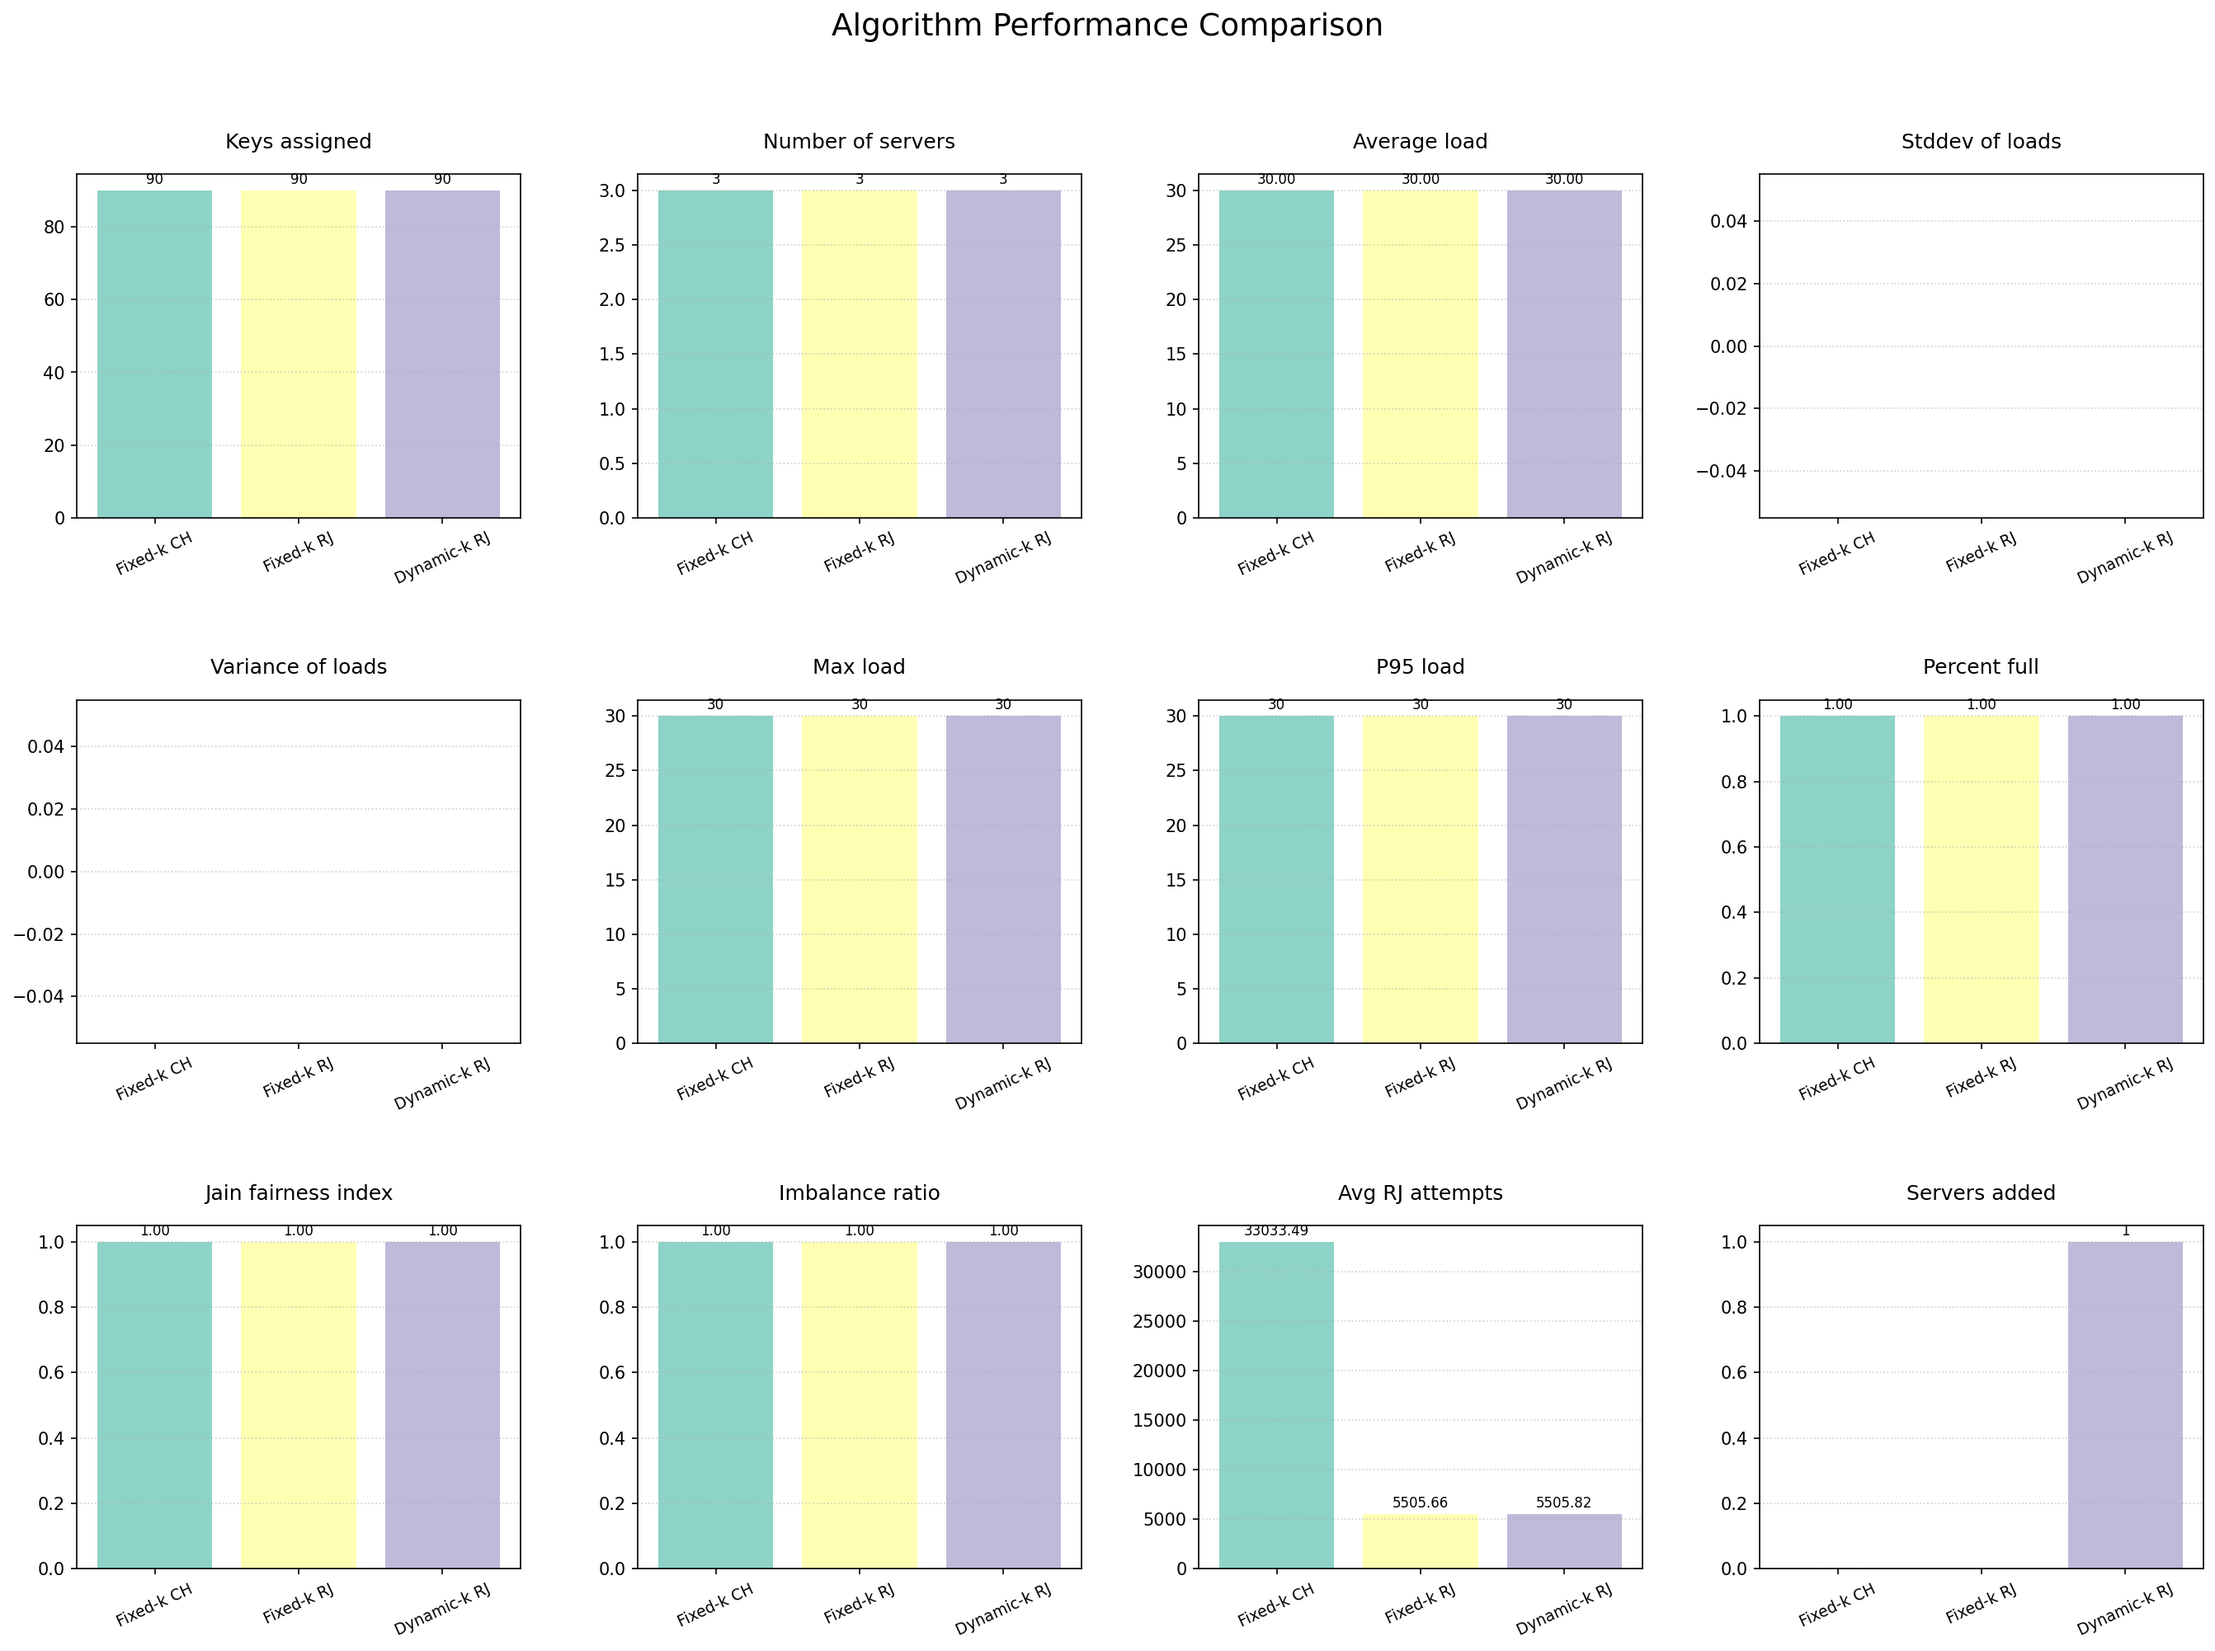
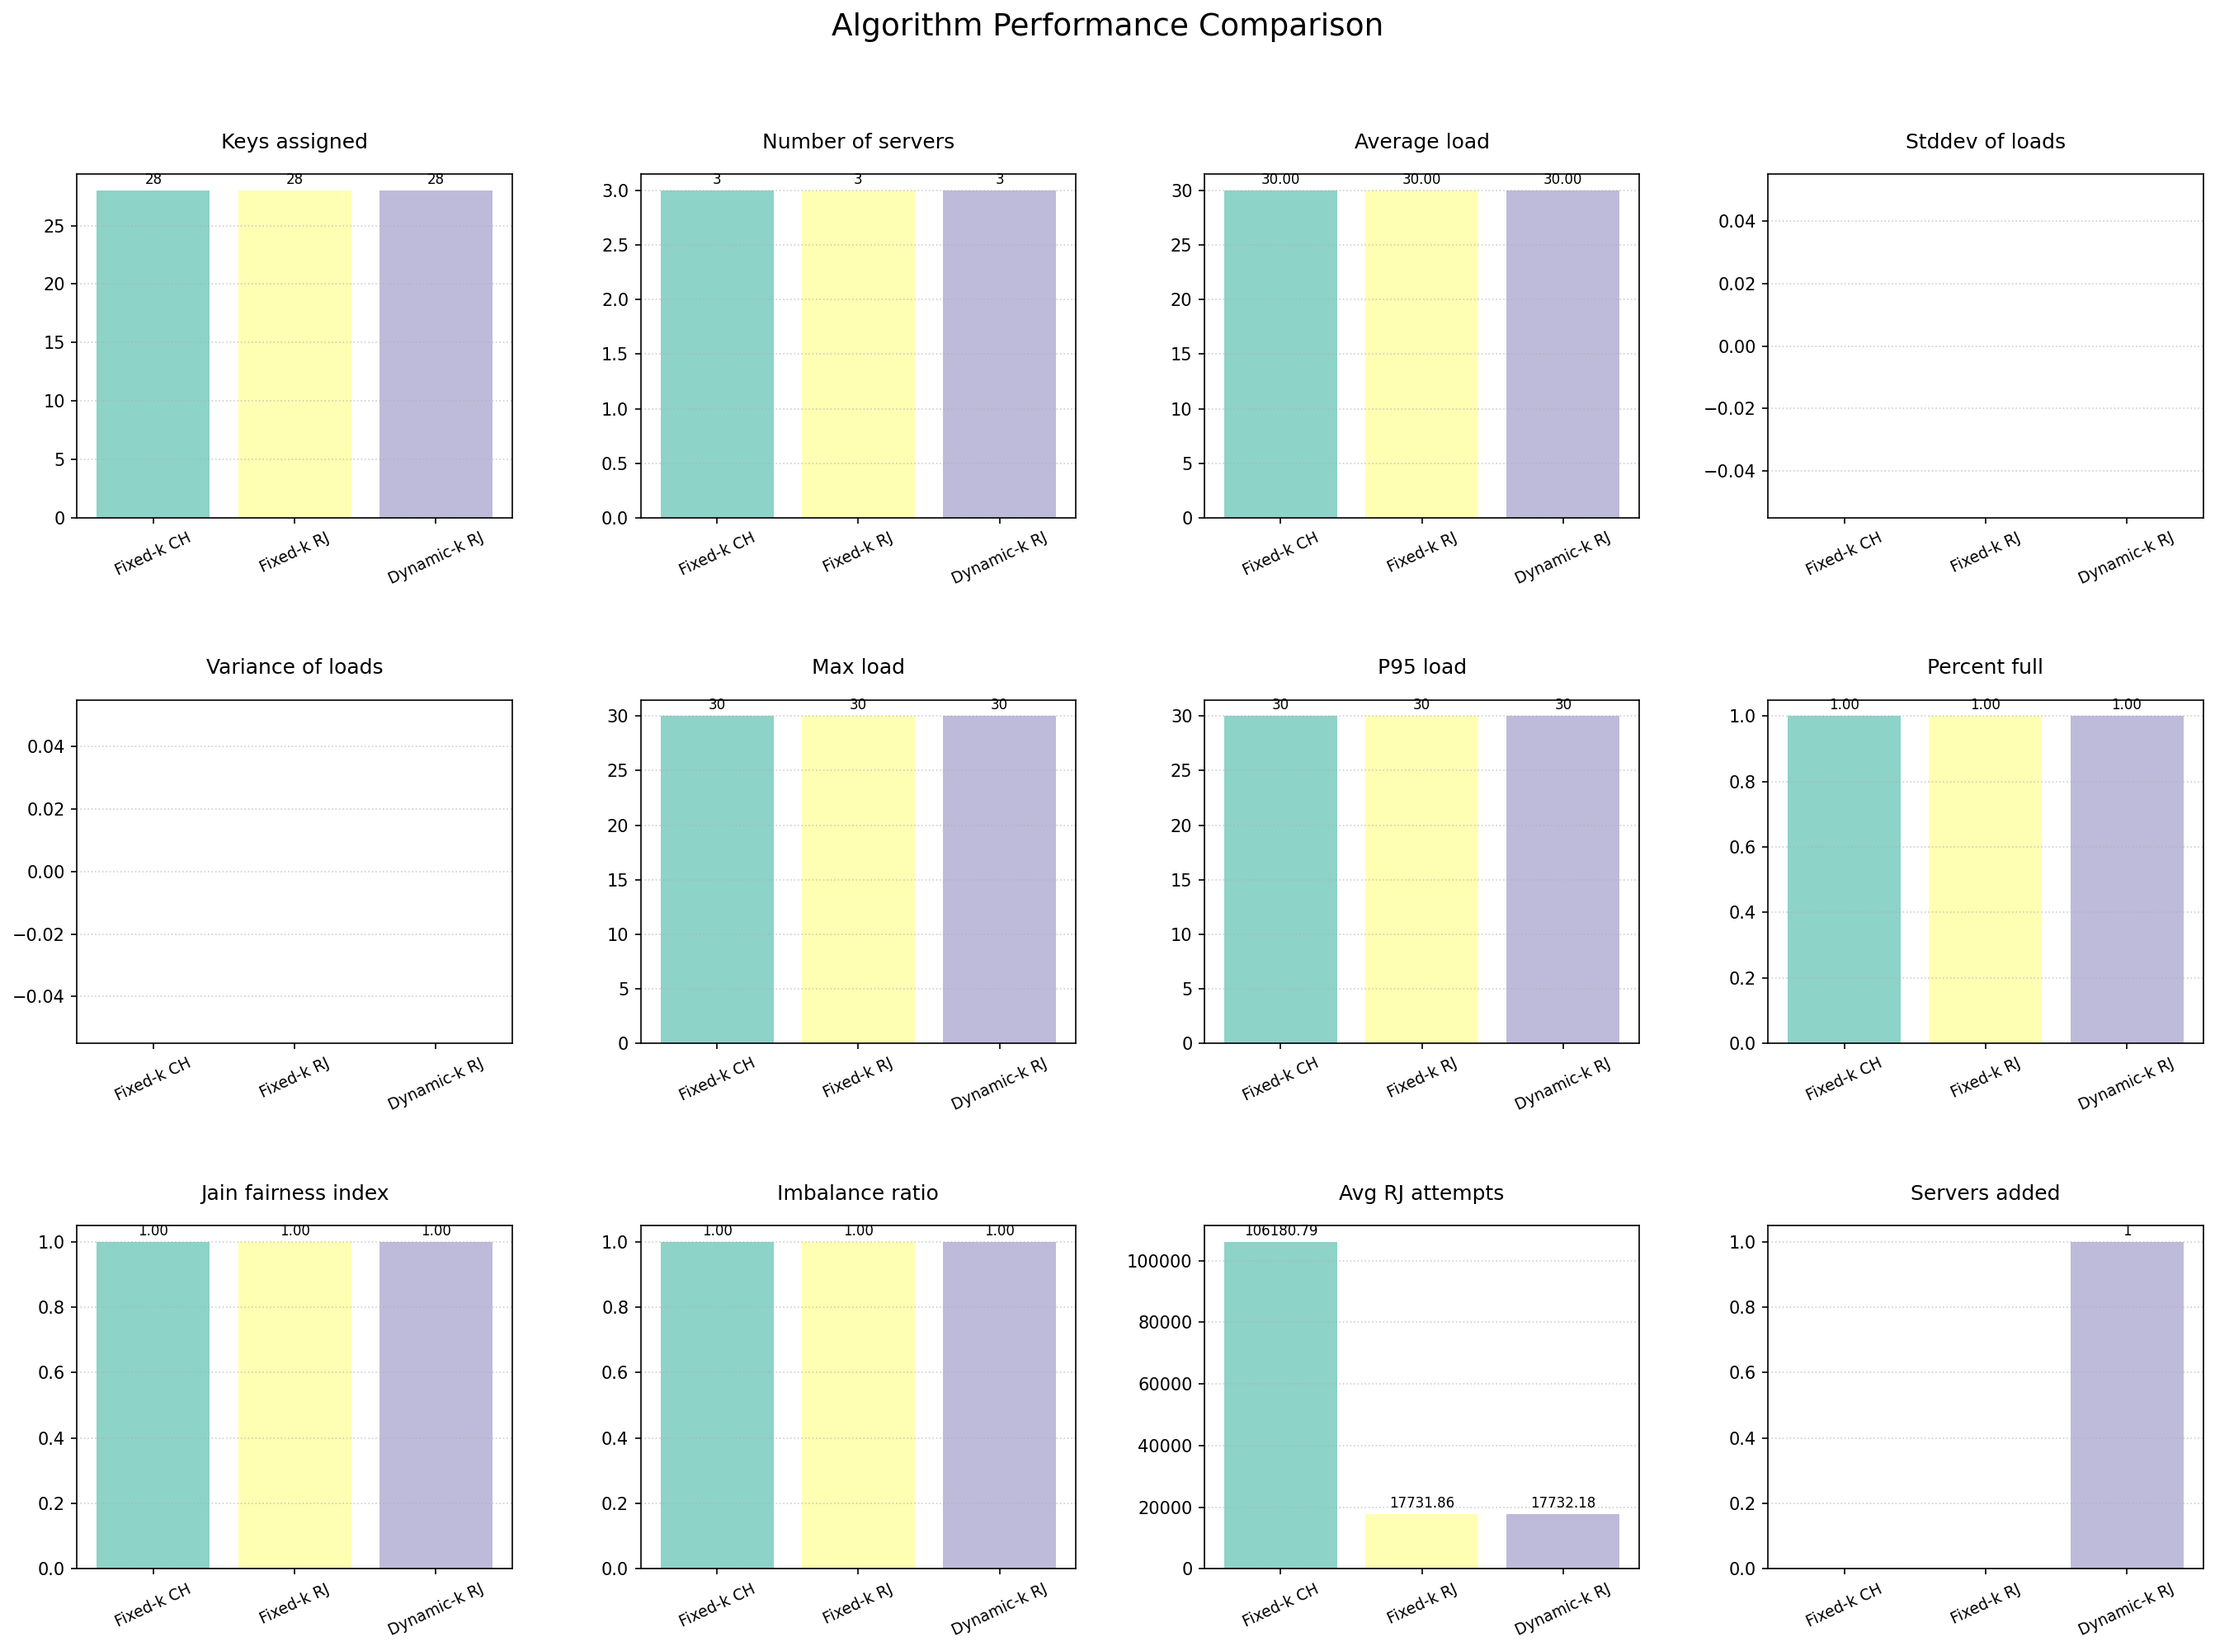
started hashring with dynamic k.

diff --git a/hashing_algorithms.py b/hashing_algorithms.py
@@ -98,26 +98,34 @@ class BoundedHashRing_RJ_CH(ConsistentHashRing):
         self,
         capacity=SERVER_CAPACITY,
         vnodes=NUM_VIRTUAL_NODES,
+        threshold_ratio=0.8,
         max_attempts=MAX_RJ_ATTEMPTS,
     ):
         super().__init__(num_replicas=vnodes, capacity=capacity)
         self.max_attempts = max_attempts
+        self.threshold_ratio = threshold_ratio
 
     def assign_key(self, key):
         if not self.ring:
             return None, 0
+        capacity_threshold = int(self.capacity * self.threshold_ratio)
         server = self.get_server_for_hash(self._hash(key))
-        if server and self.server_loads[server] < self.capacity:
+        if server and self.server_loads[server] < capacity_threshold:
             self.server_loads[server] += 1
             self.key_assignments[key] = server
             return server, 0
         for attempt in range(1, self.max_attempts + 1):
-            attempt_key = f"{key}#{attempt}"
-            server = self.get_server_for_hash(self._hash(attempt_key))
-            if server and self.server_loads[server] < self.capacity:
-                self.server_loads[server] += 1
-                self.key_assignments[key] = server
-                return server, attempt
+            s = self.get_server_for_hash(self._hash(f"{key}#{attempt}"))
+            if s and self.server_loads[s] < capacity_threshold:
+                self.server_loads[s] += 1
+                self.key_assignments[key] = s
+                return s, attempt
+        candidates = [srv for srv, l in self.server_loads.items() if l < self.capacity]
+        if candidates:
+            least = min(candidates, key=lambda s: self.server_loads[s])
+            self.server_loads[least] += 1
+            self.key_assignments[key] = least
+            return least, self.max_attempts
         return None, self.max_attempts
 
 
@@ -134,6 +142,8 @@ class BoundedHashRing_RehashThreshold(ConsistentHashRing):
         super().__init__(num_replicas=vnodes, capacity=capacity)
         self.threshold_ratio = threshold_ratio
         self.max_attempts = max_attempts
+        self.last_request_time = {}
+        self.current_time = 0
 
     def assign_key(self, key):
         if not self.ring:
@@ -165,8 +175,25 @@ class BoundedHashRing_RehashThreshold(ConsistentHashRing):
         h = self._hash(key)
         return self.get_server_for_hash(h)
 
+    def shutdown_idle_servers(self, idle_threshold):
+        """
+        Shut down servers that have been idle for more than `idle_threshold` time steps.
+        Args:
+            idle_threshold (int): Number of time steps a server can be idle before being shut down.
+        Returns:
+            list: Names of servers that were shut down.
+        """
+        idle_servers = [
+            server
+            for server, last_time in self.last_request_time.items()
+            if self.current_time - last_time > idle_threshold
+        ]
+        for server in idle_servers:
+            self.remove_server(server)
+        return idle_servers
+
     # TODO: Delete item function, if the initial k servers have enough capacity, we can delete the key from the server that we created if we
-    # had to rehash it to another server. This would free up space on the original server. So we delete the key and then create a new one as soon as the
+    # had to rehash it to another server. This would free up space on the original server. So we delete the key and then create a new one as soon as the # key is deleted.
     # Go over these function again.
     def delete_key(self, key):
         """Remove a key assignment and free up server capacity."""
@@ -178,19 +205,40 @@ class BoundedHashRing_RehashThreshold(ConsistentHashRing):
             return server
         return None
 
-    def can_remove_empty_servers(self, protected_servers=None):
-        """Find servers that are empty and can be removed."""
-        protected_servers = protected_servers or set()
-        removable = []
-
-        for server, load in self.server_loads.items():
-            if load == 0 and server not in protected_servers:
-                removable.append(server)
-
-        return removable
-
     def get_keys_on_server(self, server_name):
         """Get all keys currently assigned to a specific server."""
         return [
             key for key, server in self.key_assignments.items() if server == server_name
         ]
+
+    # Can we turn off a server afer a certain time of it being underutilized?
+    def remove_server(self, server_name):
+        """Removes a server and rehashes its keys."""
+        keys_to_rehash = self.get_keys_on_server(server_name)
+
+        if server_name in self.server_loads:
+            del self.server_loads[server_name]
+
+        hashes_to_remove = [
+            h for h, name in list(self.server_map.items()) if name == server_name
+        ]
+        for h in hashes_to_remove:
+            if h in self.ring:
+                self.ring.remove(h)
+            if h in self.server_map:
+                del self.server_map[h]
+
+        for key in keys_to_rehash:
+            # Compute the hash of the key
+            key_hash = self._hash(key)
+            # Find the next server clockwise
+            new_server = self.get_server_for_hash(key_hash)
+            if new_server and self.server_loads[new_server] < self.capacity:
+                # Assign the key to the new server
+                self.key_assignments[key] = new_server
+                self.server_loads[new_server] += 1
+            else:
+                # Key cannot be reassigned due to capacity constraints
+                del self.key_assignments[key]
+
+        return len(keys_to_rehash)

diff --git a/main_simulation.py b/main_simulation.py
@@ -1,7 +1,11 @@
 import math
 from config import NUM_SERVERS, SERVER_CAPACITY, NUM_KEYS_UNIFORM, NUM_VIRTUAL_NODES
-from data_generator import generate_uniform_keys
-from hashing_algorithms import BoundedHashRing_CH_BL, BoundedHashRing_RJ_CH
+from data_generator import generate_uniform_keys, generate_zipfian_keys
+from hashing_algorithms import (
+    BoundedHashRing_CH_BL,
+    BoundedHashRing_RJ_CH,
+    BoundedHashRing_RehashThreshold,
+)
 import statistics
 
 
@@ -185,10 +189,11 @@ def run_dynamic_k_rj(
     max_servers=None,
     up_thresh_ratio=0.8,
     down_thresh_ratio=0.3,
+    idle_threshhold=None,
 ):
     min_servers = min_servers or max(2, NUM_SERVERS // 2)
     max_servers = max_servers or NUM_SERVERS
-    ring = BoundedHashRing_RJ_CH(
+    ring = BoundedHashRing_RehashThreshold(
         capacity=SERVER_CAPACITY, vnodes=NUM_VIRTUAL_NODES, max_attempts=50
     )
     # start with a small cluster
@@ -198,7 +203,7 @@ def run_dynamic_k_rj(
     autoscale = {"added": 0, "removed": 0}
     total_attempts = 0
 
-    for k in keys:
+    for t, k in enumerate(keys):
         _, cost = ring.assign_key(k)
         total_attempts += cost
 
@@ -226,15 +231,22 @@ def run_dynamic_k_rj(
             ring.remove_server(to_remove)
             autoscale["removed"] += 1
 
+        if idle_threshhold is not None and t % 50 == 0:
+            idle_servers = ring.shutdown_idle_servers(idle_threshhold)
+            if idle_servers:
+                autoscale["removed"] += len(idle_servers)
+
     return _detailed_stats_from_ring(ring, len(keys), total_attempts, autoscale)
 
 
 def run_all():
     keys = generate_uniform_keys(NUM_KEYS_UNIFORM)
 
+    keys = generate_zipfian_keys(NUM_KEYS_UNIFORM)
+
     fixed_ch_stats = run_fixed_k_ch(keys)
     fixed_rj_stats = run_fixed_k_rj(keys)
-    dynamic_rj_stats = run_dynamic_k_rj(keys)
+    dynamic_rj_stats = run_dynamic_k_rj(keys, idle_threshhold=10)
     run_spike_experiment(steady_keys=1000, spike_keys=8000, snapshot_interval=500)
 
     from createplots import plot_stats_comparison

diff --git a/data_generator.py b/data_generator.py
@@ -8,8 +8,8 @@ def generate_uniform_keys(num_keys=NUM_KEYS_UNIFORM):
 
 # We use this function to generate keys with Zipfian distribution, which simulates real world web requests,
 # where a few keys are extremely popular and most are not.
-def generate_zipfian_keys(num_keys, total_possible_keys=100000):
-    a = DLB_ZIPF_ALPHA
+def generate_zipfian_keys(num_keys, total_possible_keys=100000, alpha=DLB_ZIPF_ALPHA):
+    a = alpha
     idx = np.random.zipf(a, size=num_keys).astype(int)
     idx = np.clip(idx, 1, total_possible_keys)
     return [f"key_{i}" for i in idx]
@@ -32,3 +32,30 @@ def generate_training_data(size, num_servers, server_capacity):
         server_loads[int(np.argmin(server_loads))] += 1
         server_loads = np.minimum(server_loads, server_capacity)
     return np.array(X, dtype=float), np.array(Y, dtype=int)
+
+
+def generate_multiple_zipfian_datasets(
+    num_datasets, num_keys, total_possible_keys=100000, alphas=None
+):
+    """
+    Generate multiple datasets with Zipfian distributions.
+
+    Args:
+        num_datasets (int): Number of datasets to generate.
+        num_keys (int): Number of keys in each dataset.
+        total_possible_keys (int): Total unique keys.
+        alphas (list): List of alpha values for each dataset. If None, use default alpha.
+
+    Returns:
+        list: List of datasets, where each dataset is a list of keys.
+    """
+    if alphas is None:
+        alphas = [DLB_ZIPF_ALPHA] * num_datasets  # Use default alpha for all datasets
+    elif len(alphas) != num_datasets:
+        raise ValueError("The length of alphas must match num_datasets.")
+
+    datasets = []
+    for alpha in alphas:
+        dataset = generate_zipfian_keys(num_keys, total_possible_keys, alpha)
+        datasets.append(dataset)
+    return datasets
